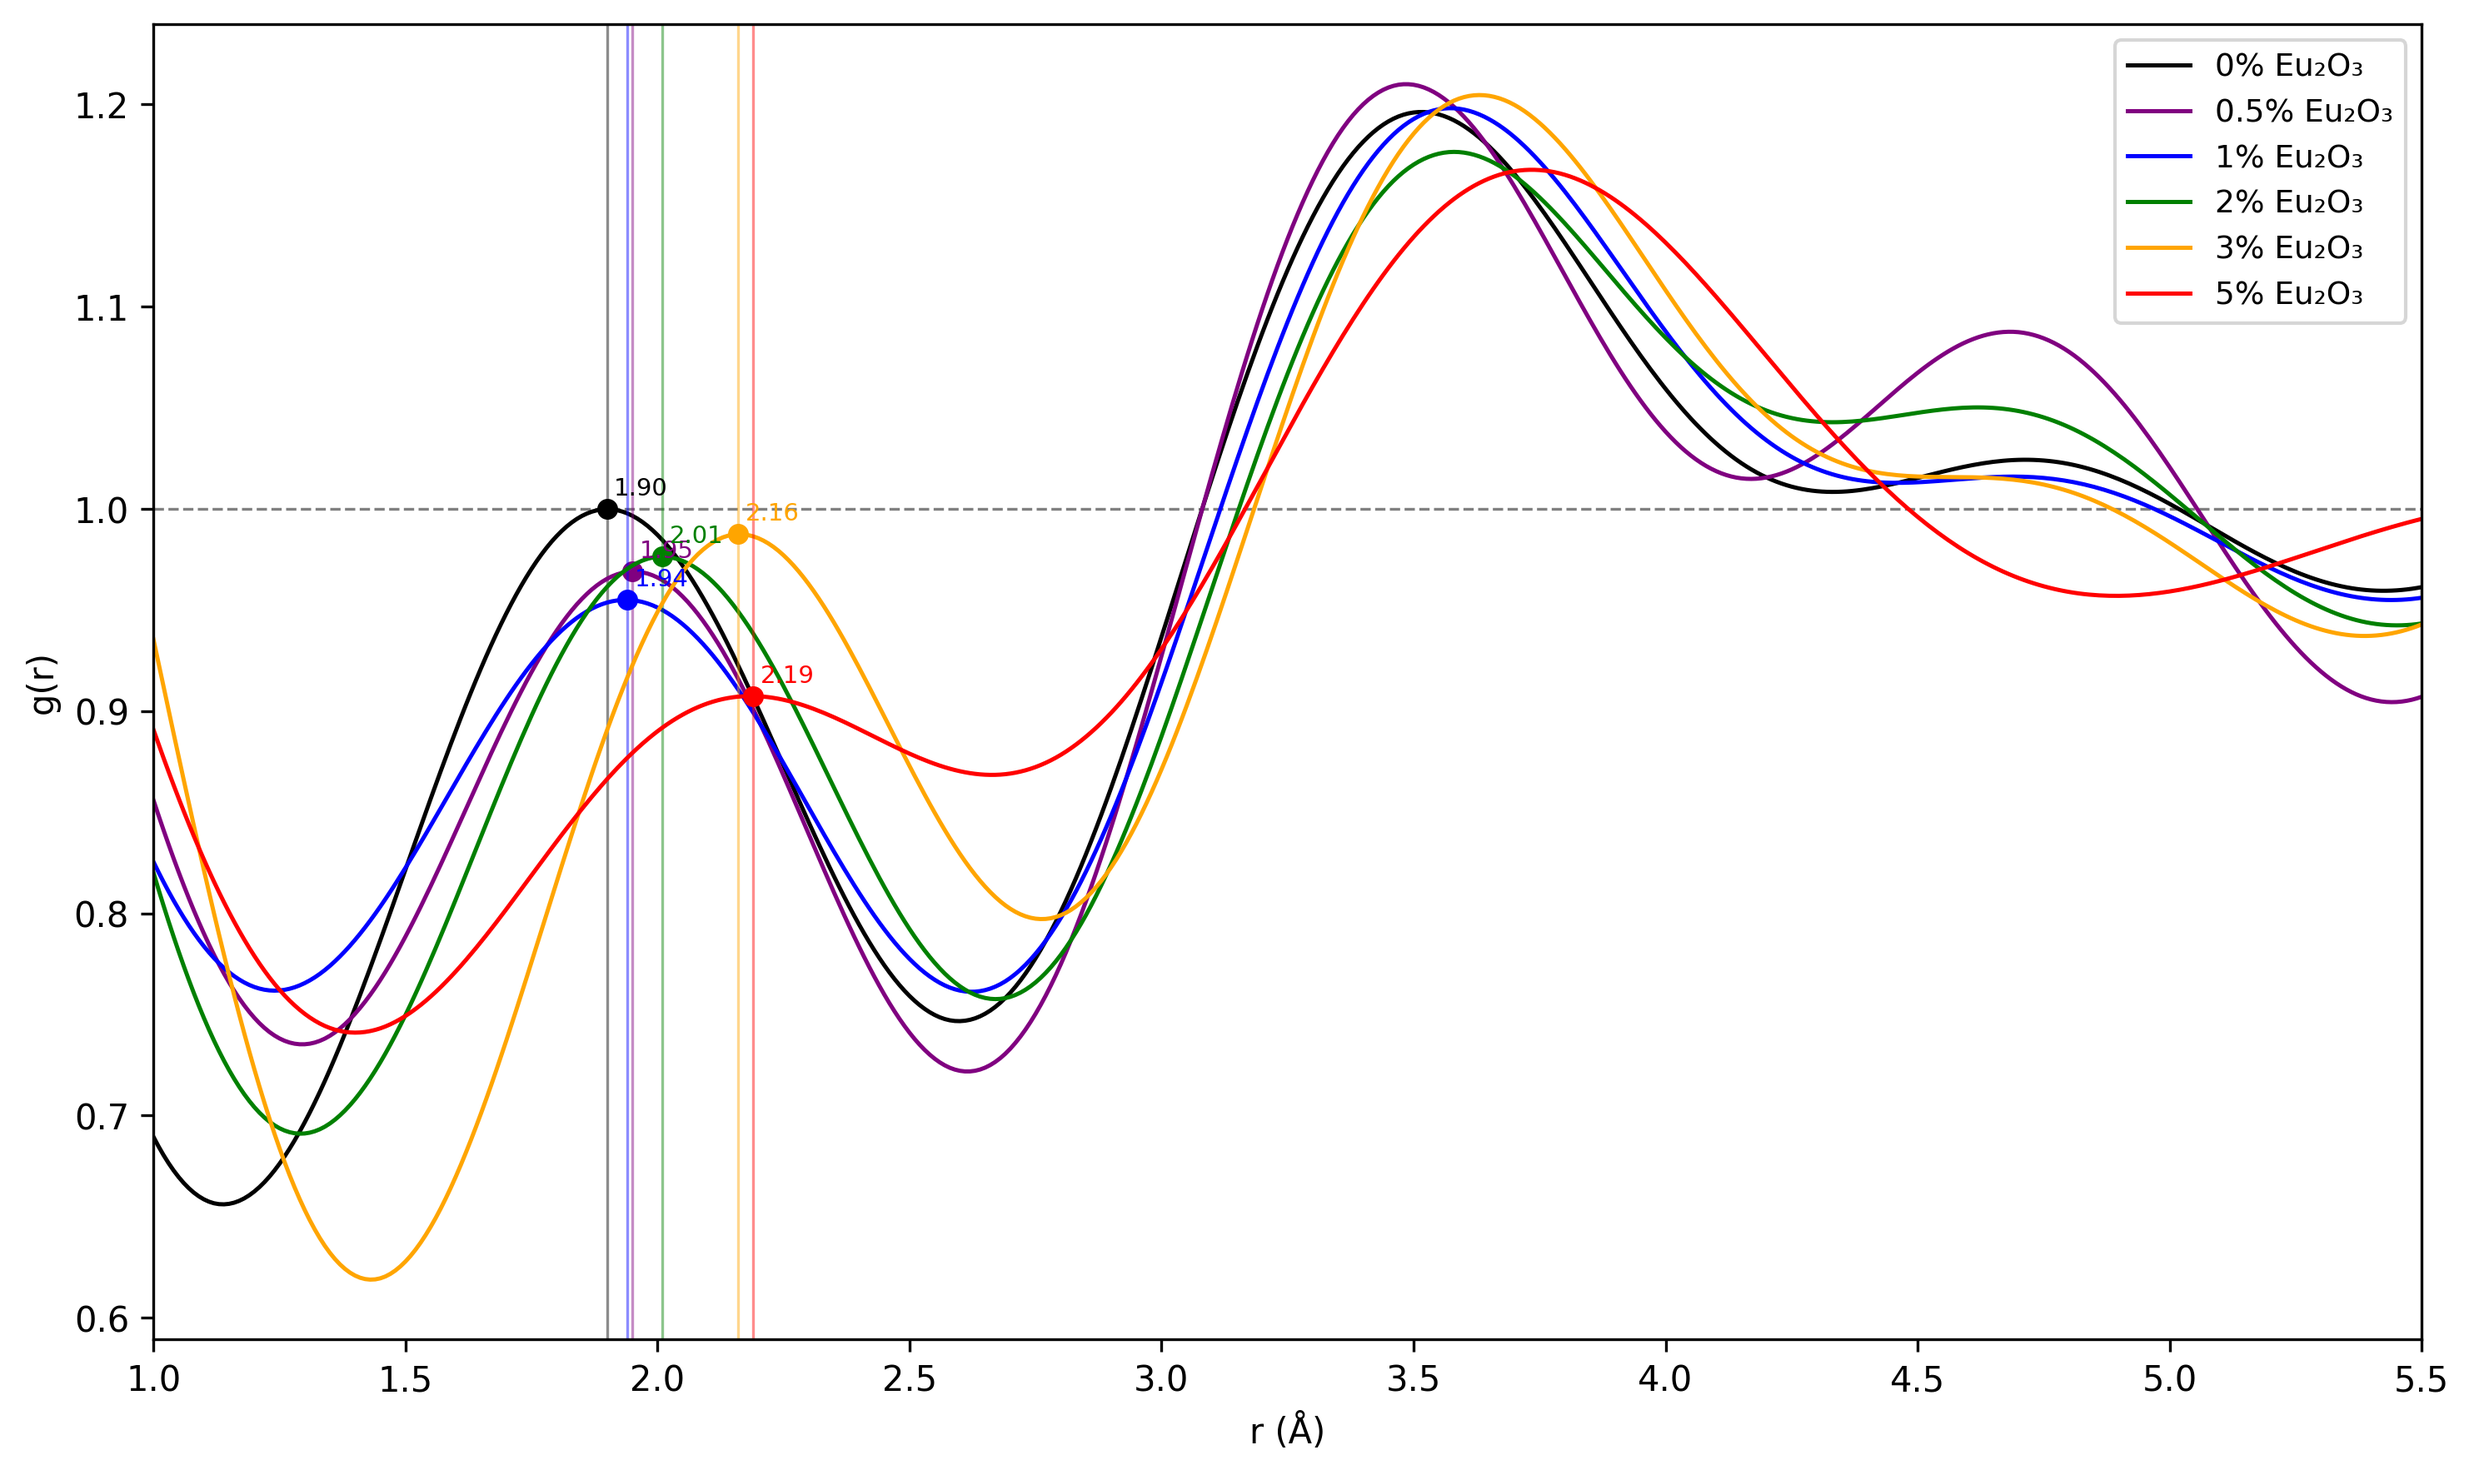
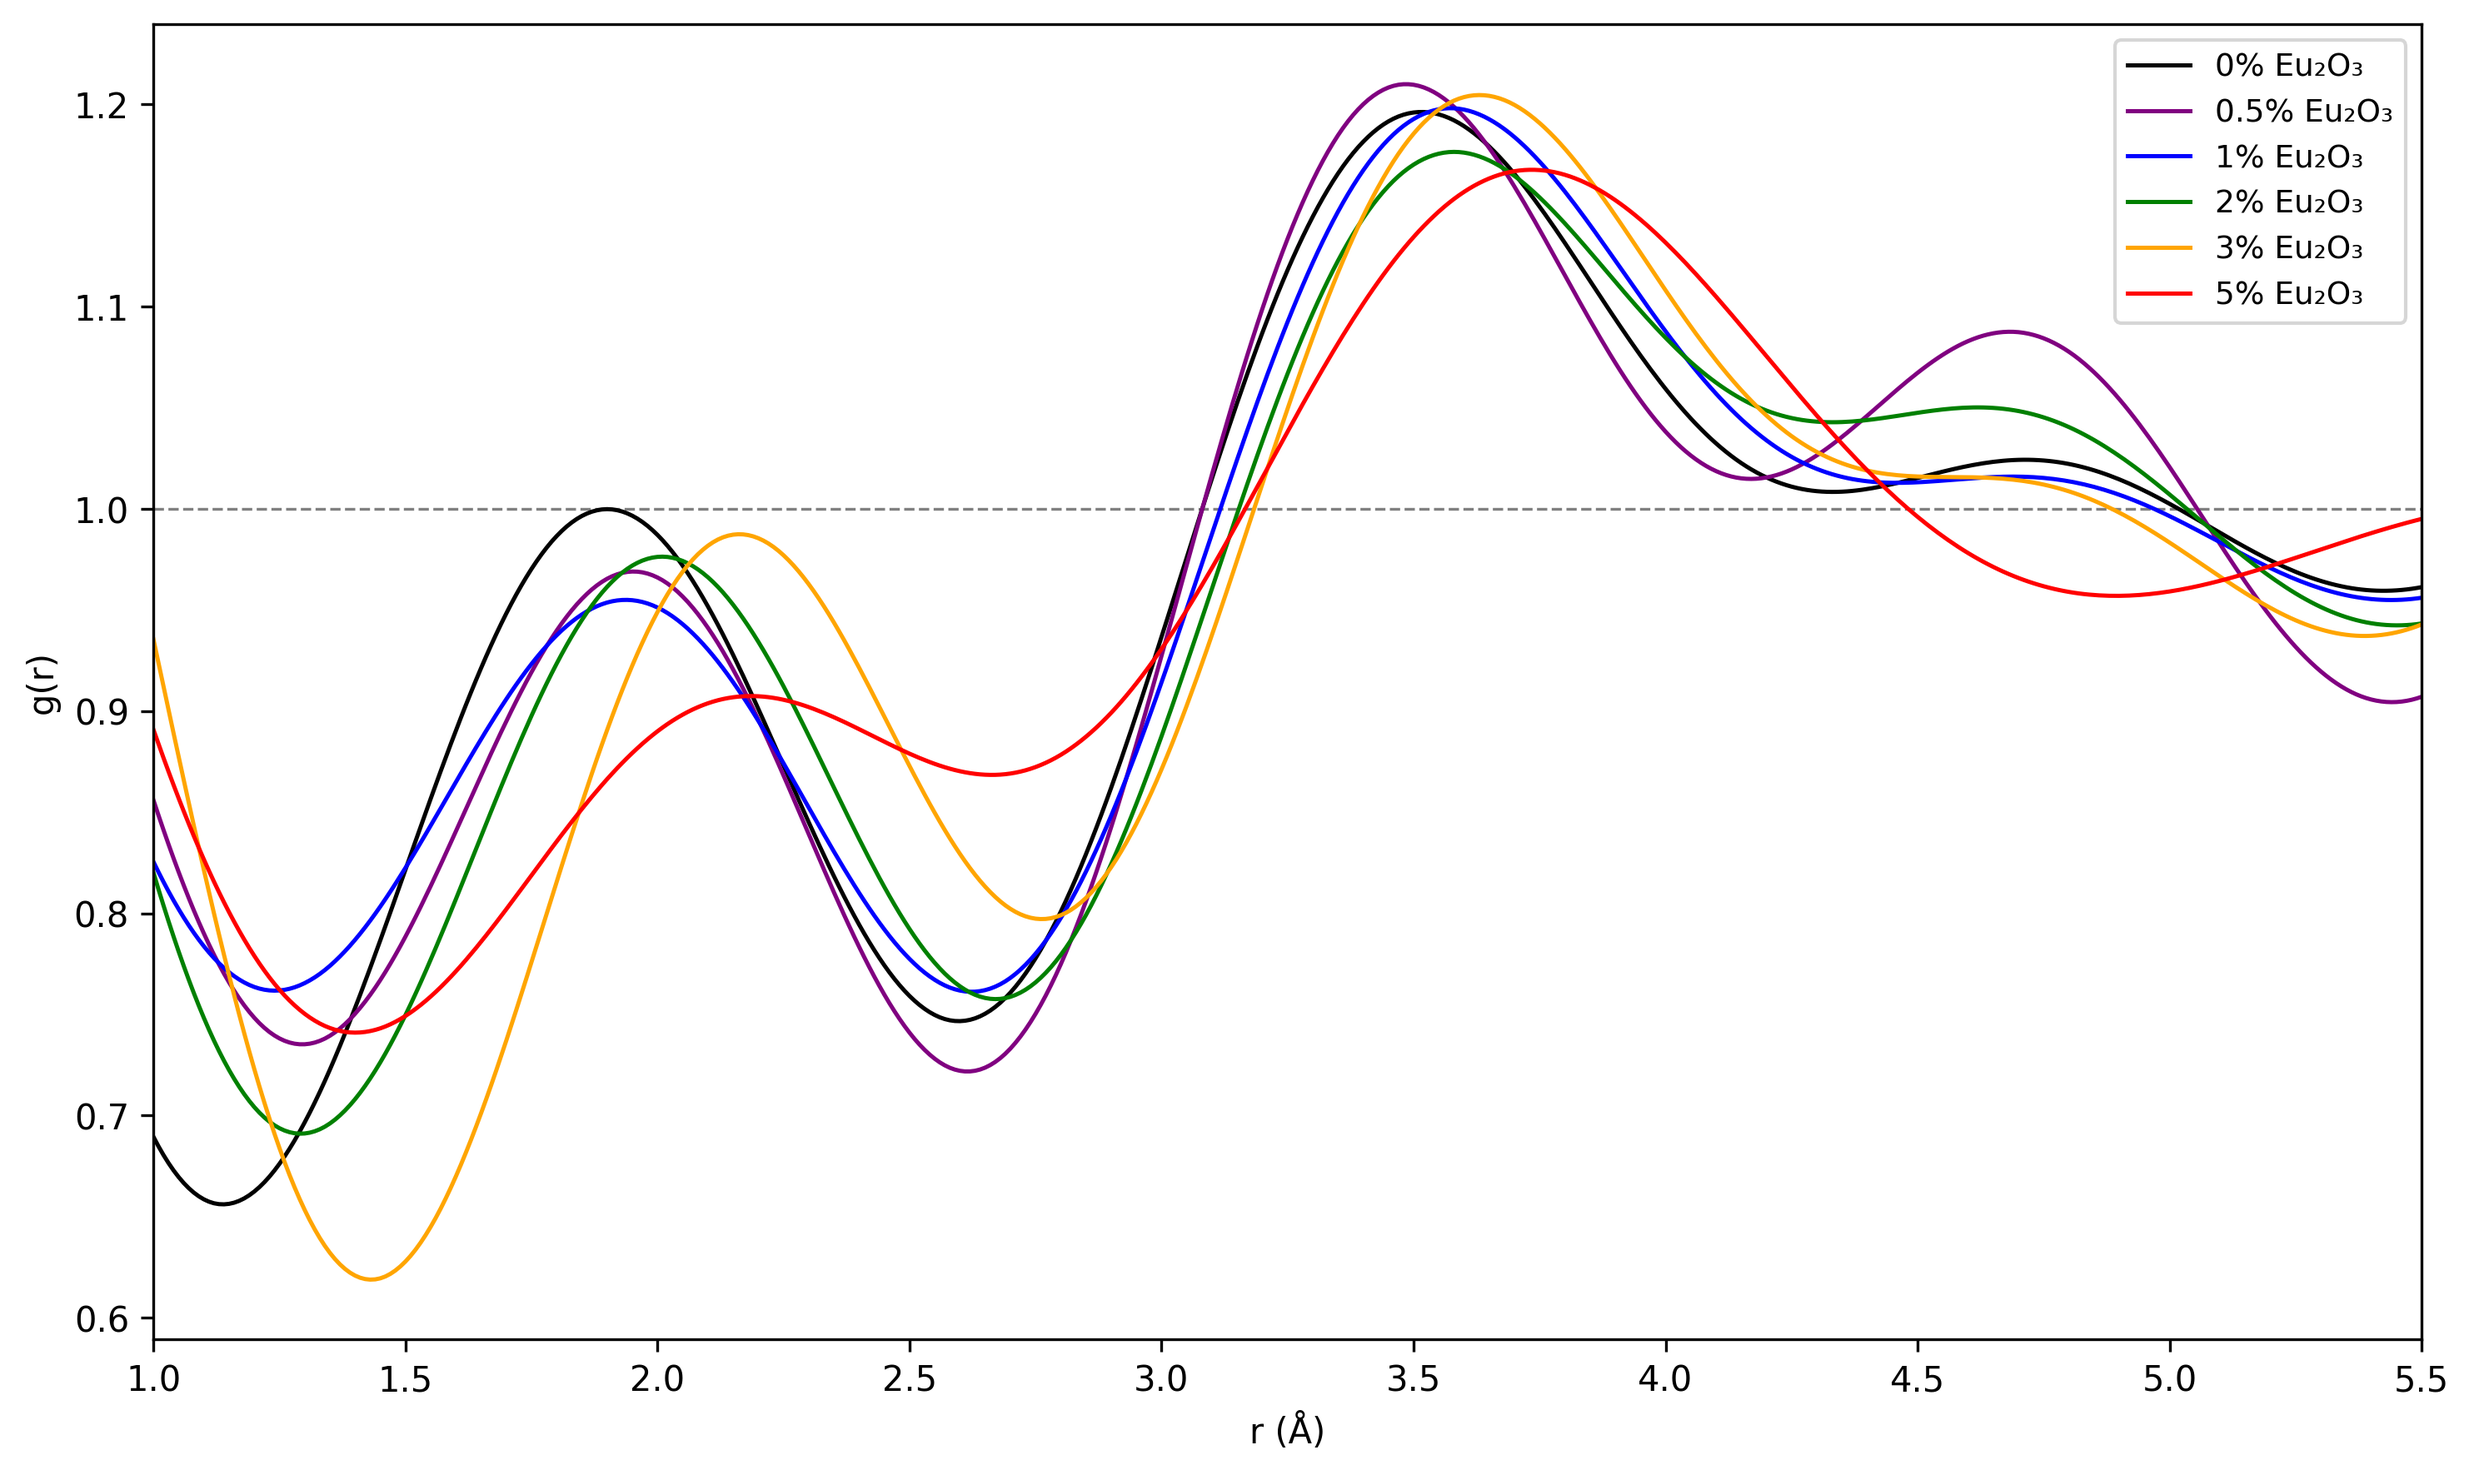
Remove all peak markers from G(r)/g(r) plots

Changed region(s): [[0.2478, 0.3106, 0.3098, 0.4348], [0.2788, 0.4658, 0.3098, 0.4969]]

diff --git a/final_analysis/scripts/generate_series_plots.py b/final_analysis/scripts/generate_series_plots.py
@@ -115,14 +115,6 @@ def plot_01(cfg, data):
         ax = axes[i]
         d = data[sid]
         ax.plot(d["r"], d["G"], color=colors[i], lw=1.2)
-        # Mark first shell peak only (~1.9 Å)
-        if d["first_r"] is not None:
-            ax.plot(d["first_r"], d["first_G"], U.PEAK_MARKER,
-                    color="red", ms=U.PEAK_MARKERSIZE, zorder=5)
-            ax.annotate(f'{d["first_r"]:.2f} Å',
-                        (d["first_r"], d["first_G"]),
-                        textcoords="offset points", xytext=(5, 8),
-                        fontsize=U.PEAK_FONTSIZE, color="red")
         ax.set_xlim(1, 11)
         ax.set_xlabel("r (Å)")
         ax.set_ylabel("G(r) (Å⁻²)")
@@ -152,14 +144,6 @@ def plot_03(cfg, data):
         off = i * U.WATERFALL_OFFSET_GR
         y = d["G"] + off
         ax.plot(d["r"], y, color=cfg["colors"][i], lw=1.2)
-        if d["first_r"] is not None:
-            idx = np.argmin(np.abs(d["r"] - d["first_r"]))
-            ax.plot(d["first_r"], d["G"][idx] + off, U.PEAK_MARKER,
-                    color=cfg["colors"][i], ms=U.PEAK_MARKERSIZE)
-            ax.annotate(f'{d["first_r"]:.2f} Å',
-                        (d["first_r"], d["G"][idx] + off),
-                        textcoords="offset points", xytext=(6, 4),
-                        fontsize=U.PEAK_FONTSIZE, color=cfg["colors"][i])
         extra = 0.3 if sid in U.EXTRA_OFFSET_SAMPLES else 0.0
         U.add_inline_label(ax, U.LABEL_X, off, d["info"]["label"],
                            cfg["colors"][i], extra)
@@ -209,14 +193,6 @@ def plot_06(cfg, data):
         d = data[sid]
         ax.plot(d["r"], d["gr"], color=cfg["colors"][i], lw=1.2,
                 label=pct_label(d["info"], cfg["dopant_oxide"]))
-        if d["first_gr_r"] is not None:
-            ax.axvline(d["first_gr_r"], color=cfg["colors"][i], ls="-", lw=0.8, alpha=0.45)
-            ax.plot(d["first_gr_r"], d["first_gr"], U.PEAK_MARKER,
-                    color=cfg["colors"][i], ms=U.PEAK_MARKERSIZE)
-            ax.annotate(f'{d["first_gr_r"]:.2f}',
-                        (d["first_gr_r"], d["first_gr"]),
-                        textcoords="offset points", xytext=(2, 4),
-                        fontsize=7, color=cfg["colors"][i])
     ax.set_xlim(1.0, 5.5)
     ax.set_xlabel("r (Å)")
     ax.set_ylabel("g(r)")
@@ -694,9 +670,6 @@ def plot_25(cfg, data):
         d = data[sid]
         ax.plot(d["r"], d["gr"], color=cfg["colors"][i], lw=1.2,
                 label=pct_label(d["info"], cfg["dopant_oxide"]))
-        if d["first_gr_r"] is not None:
-            ax.plot(d["first_gr_r"], d["first_gr"], U.PEAK_MARKER,
-                    color=cfg["colors"][i], ms=U.PEAK_MARKERSIZE)
     ax.set_xlim(1, 11)
     ax.set_ylim(0.5, 2.0)
     ax.set_xlabel("r (Å)")

diff --git a/final_analysis/scripts/regen_peak_labels.py b/final_analysis/scripts/regen_peak_labels.py
@@ -1,22 +1,39 @@
 #!/usr/bin/env python3
-"""Regenerate G(r)/g(r) plots with first-peak markers only (no Te–Te marks)."""
+"""Regenerate G(r)/g(r) plots with NO peak markers."""
 import generate_series_plots as g
 import generate_comparison as c
+import os
+import shutil
 
 for series in ("eu", "er"):
     cfg = g.load_series(series)
     data = g.load_all_data(cfg)
-    print("===", series, "===")
-    for sid in cfg["keys"]:
-        d = data[sid]
-        print(f"  {sid}: first peak @ {d['first_r']:.3f} Å")
+    print("===", series, "->", cfg["outdir"])
     g.plot_01(cfg, data)
     g.plot_03(cfg, data)
     g.plot_06(cfg, data)
     g.plot_25(cfg, data)
 
-print("=== comparison waterfall ===")
+print("=== comparison ===")
 eu_data = c.load_gr_series(c.EU_SAMPLES)
 er_data = c.load_gr_series(c.ER_SAMPLES, out_override=c.ER_OUT)
 c.comparison_Gr_waterfall(eu_data, er_data)
+
+# Sync to parent D:\pdfxrd\final_analysis if present (stale copy users may open)
+parent = "/mnt/d/pdfxrd/final_analysis"
+repo = "/mnt/d/pdfxrd/pdf/final_analysis"
+if os.path.isdir(parent):
+    for sub in ("eu2o3", "er2o3", "comparison"):
+        for name in (
+            "01_individual_Gr_samples.png",
+            "03_Gr_waterfall.png",
+            "06_first_peak_zoom.png",
+            "25_gr_overlay_comparison.png",
+            "comparison_Gr_waterfall.png",
+        ):
+            src = os.path.join(repo, sub, name)
+            dst = os.path.join(parent, sub, name)
+            if os.path.isfile(src) and os.path.isdir(os.path.dirname(dst)):
+                shutil.copy2(src, dst)
+                print("synced", dst)
 print("Done.")

diff --git a/final_analysis/scripts/generate_comparison.py b/final_analysis/scripts/generate_comparison.py
@@ -46,14 +46,6 @@ def comparison_Gr_waterfall(eu_data, er_data):
         for i, (sid, d) in enumerate(data.items()):
             off = i * U.WATERFALL_OFFSET_GR
             ax.plot(d["r"], d["G"] + off, color=colors[i], lw=1.2)
-            if d["first_r"] is not None:
-                idx = np.argmin(np.abs(d["r"] - d["first_r"]))
-                ax.plot(d["first_r"], d["G"][idx] + off, "o",
-                        color=colors[i], ms=4)
-                ax.annotate(f'{d["first_r"]:.2f} Å',
-                            (d["first_r"], d["G"][idx] + off),
-                            textcoords="offset points", xytext=(4, 3),
-                            fontsize=7, color=colors[i])
             extra = 0.3 if sid in U.EXTRA_OFFSET_SAMPLES else 0.0
             U.add_inline_label(ax, U.LABEL_X, off, d["info"]["label"],
                                colors[i], extra)
